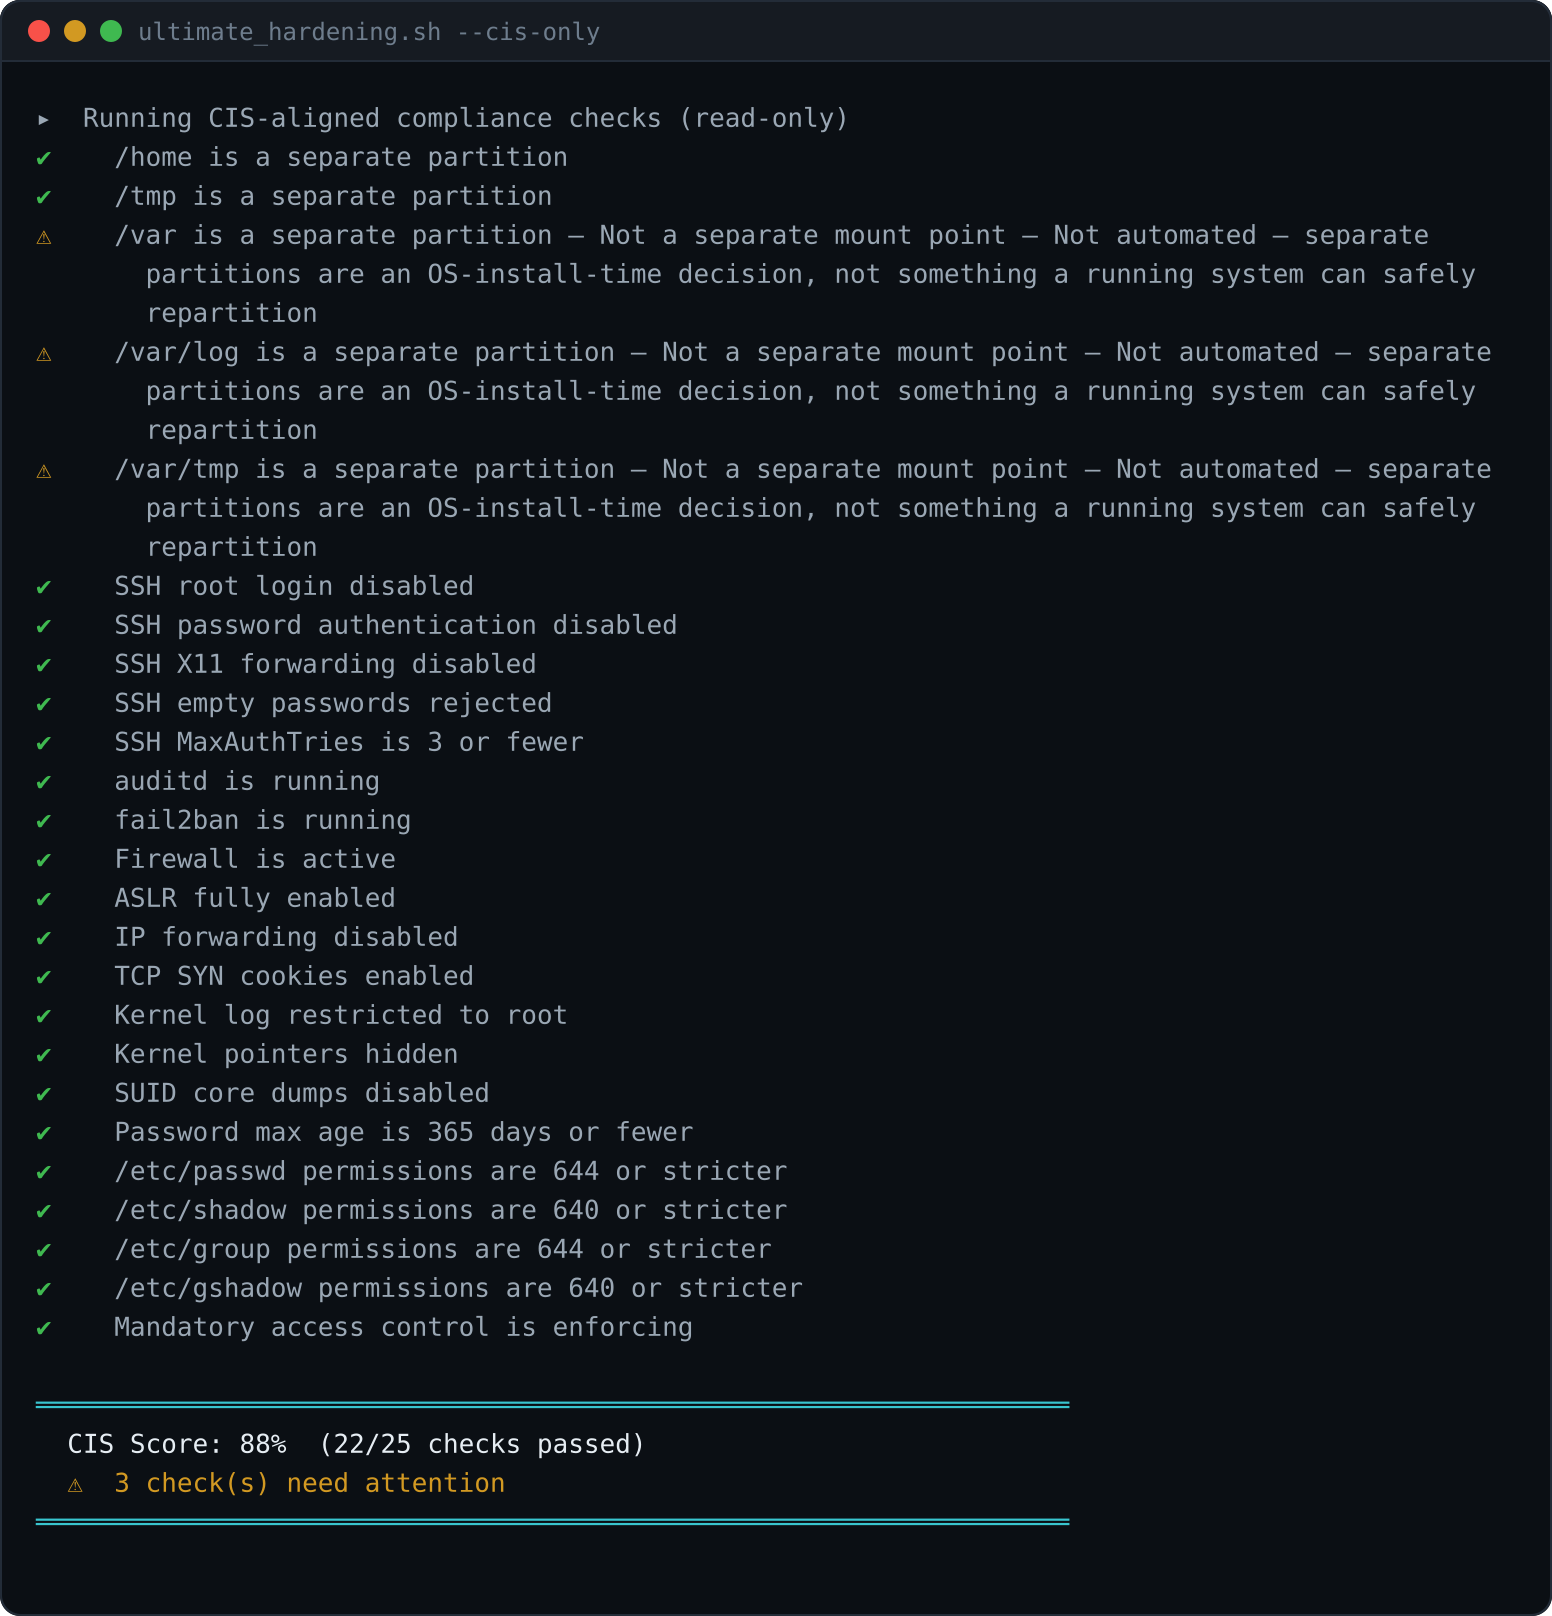
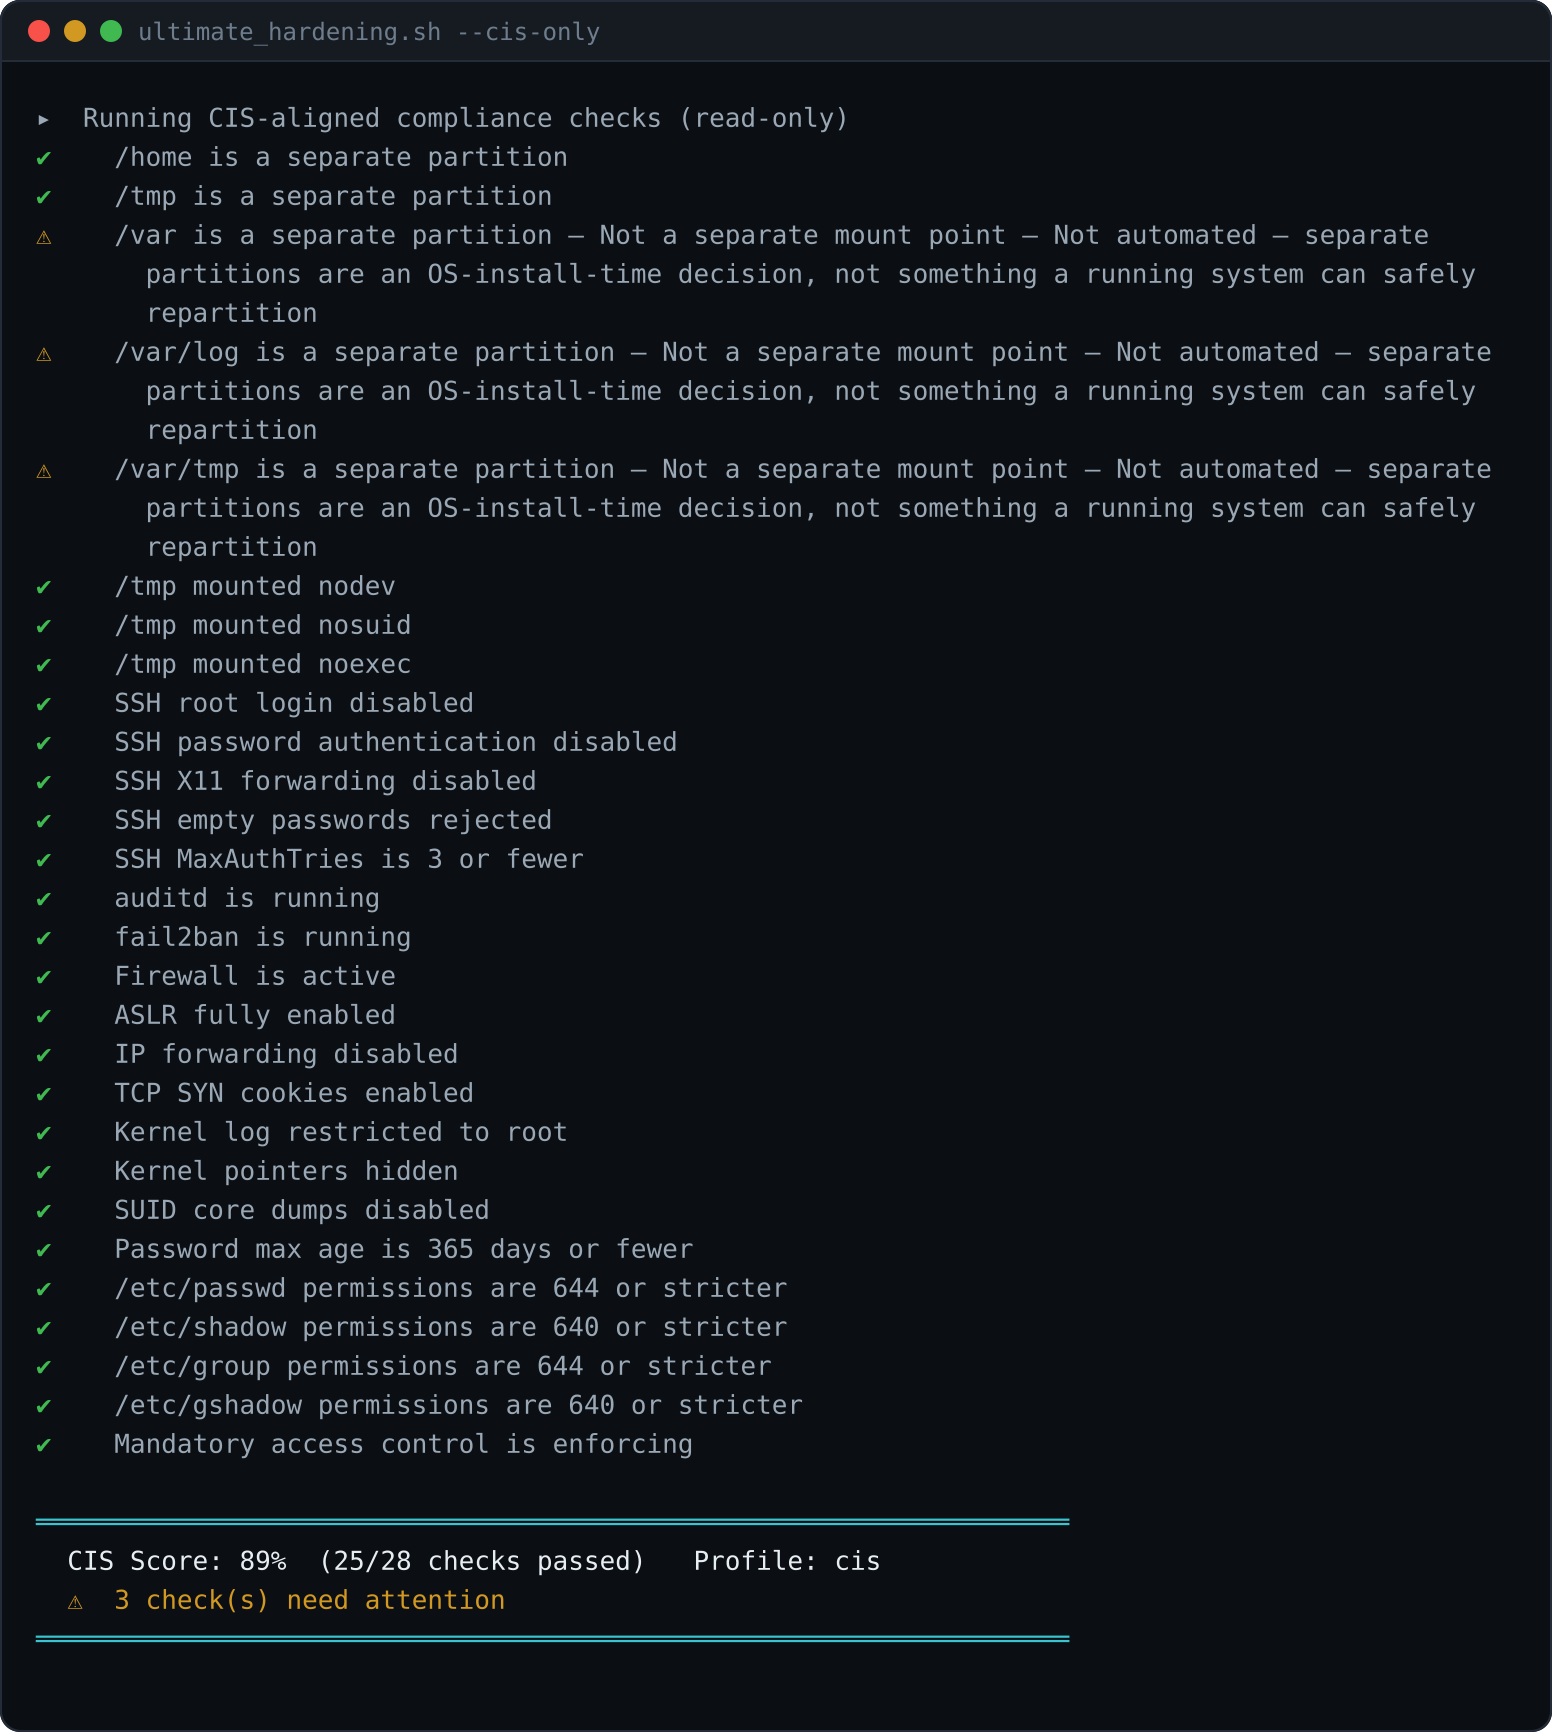
Release 2.8.0
Bump UH_VERSION, the clone lines in README, SECURITY.md and
docs/installation.md, the README's V= install line and container demo,
the site's badge and install commands, the Ansible role's uh_version
and the example in its README, and the package version that
tests/ansible/run.sh installs. Regenerate the site's terminal blocks,
the README screenshots and the Pro menu image from the code: the
overview carries the new version and the Profile column, and the
compliance screenshot shows the /tmp mount checks. Date the changelog
and add the 2.8.0 release link. The AUR package follows once the v2.8.0
tarball exists. The site's replay demo (docs/demo.html) still shows
2.7.0; it is re-recorded on a lab guest separately, as for 2.7.0.

2.8.0 adds two hardening profiles, chosen on a new first screen or with
--profile modern|cis: cis keeps the CIS values, modern follows NIST SP
800-63B-4 (no forced password expiry, compilers left out of "apply
all", umask 007 with a fallback to 027 wherever users or a directory
service could share a primary group, and optional UH_SHARED_DIRS group
workspaces). Container and Kubernetes hosts keep IP forwarding and
Kubernetes-owned sysctl keys, and get a bigger audit buffer. New CIS
checks cover /tmp's nodev, nosuid and noexec and lost audit events.
Fixes include a symlink attack on the shared-directory revert, and
check results kept to one line for exports.

diff --git a/docs/index.html b/docs/index.html
@@ -286,7 +286,7 @@
   </p>
 
   <div class="badges">
-    <span class="badge ok">v2.7.0</span>
+    <span class="badge ok">v2.8.0</span>
     <span class="badge ok">ShellCheck clean</span>
     <span class="badge">23 modules</span>
     <span class="badge">26 platforms</span>
@@ -310,13 +310,13 @@
       <span class="dot" style="background:#3fb950"></span>
       <span class="term-title">root@server — ultimate_hardening.sh --dry-run</span>
     </div>
-<div class="term-body"><span class="c-f">$</span> <span class="c-w">git clone --branch v2.7.0 https://github.com/Kal1010101/ultimate-sys-hardening.git</span>
+<div class="term-body"><span class="c-f">$</span> <span class="c-w">git clone --branch v2.8.0 https://github.com/Kal1010101/ultimate-sys-hardening.git</span>
 <span class="c-f">$</span> <span class="c-w">cd ultimate-sys-hardening</span>
 <span class="c-f">$</span> <span class="c-w">sudo ./src/free/ultimate_hardening.sh --dry-run</span>
 
 <!-- BEGIN generated modules: ./docs/build-terminals.sh -->
 <span class="c-c">╔══════════════════════════════════════════════════════════════════╗</span>
-<span class="c-c">║</span><span class="c-c">       ULTIMATE HARDENING 2.7.0 — FREE TIER</span>                       <span class="c-c">║</span>
+<span class="c-c">║</span><span class="c-c">       ULTIMATE HARDENING 2.8.0 — FREE TIER</span>                       <span class="c-c">║</span>
 <span class="c-c">║</span><span class="c-c">       Platform: </span><span class="c-w">rhel</span><span class="c-c">   Profile: </span><span class="c-w">cis</span>                              <span class="c-c">║</span>
 <span class="c-c">╚══════════════════════════════════════════════════════════════════╝</span>
 
@@ -754,12 +754,12 @@
         <span class="dot" style="background:#3fb950"></span>
         <span class="term-title">quick start</span>
       </div>
-<div class="term-body"><span class="c-f">$</span> <span class="c-w">git clone --branch v2.7.0 https://github.com/Kal1010101/ultimate-sys-hardening.git</span>
+<div class="term-body"><span class="c-f">$</span> <span class="c-w">git clone --branch v2.8.0 https://github.com/Kal1010101/ultimate-sys-hardening.git</span>
 <span class="c-f">$</span> <span class="c-w">cd ultimate-sys-hardening</span>
 <span class="c-f">$</span> <span class="c-w">sudo ./src/free/ultimate_hardening.sh --dry-run</span>
 
 <span class="c-c"># or try it in a throwaway container, with nothing on your machine touched:</span>
-<span class="c-f">$</span> <span class="c-w">docker run --rm -it ubuntu:24.04 bash -c "apt-get update -qq &amp;&amp; apt-get install -y -qq git ca-certificates openssh-server &gt;/dev/null &amp;&amp; git clone --branch v2.7.0 https://github.com/Kal1010101/ultimate-sys-hardening.git &amp;&amp; cd ultimate-sys-hardening &amp;&amp; ./src/free/ultimate_hardening.sh --dry-run"</span>
+<span class="c-f">$</span> <span class="c-w">docker run --rm -it ubuntu:24.04 bash -c "apt-get update -qq &amp;&amp; apt-get install -y -qq git ca-certificates openssh-server &gt;/dev/null &amp;&amp; git clone --branch v2.8.0 https://github.com/Kal1010101/ultimate-sys-hardening.git &amp;&amp; cd ultimate-sys-hardening &amp;&amp; ./src/free/ultimate_hardening.sh --dry-run"</span>
 </div>
     </div>
     <div class="cta" style="justify-content:center">

diff --git a/README.md b/README.md
@@ -91,7 +91,7 @@ opens the interactive menu in dry-run mode on Ubuntu (for Rocky Linux, use
 `rockylinux:9` and `dnf install -y git openssh-server`):
 
 ```bash
-docker run --rm -it ubuntu:24.04 bash -c "apt-get update -qq && apt-get install -y -qq git ca-certificates openssh-server >/dev/null && git clone --branch v2.7.0 https://github.com/Kal1010101/ultimate-sys-hardening.git && cd ultimate-sys-hardening && ./src/free/ultimate_hardening.sh --dry-run"
+docker run --rm -it ubuntu:24.04 bash -c "apt-get update -qq && apt-get install -y -qq git ca-certificates openssh-server >/dev/null && git clone --branch v2.8.0 https://github.com/Kal1010101/ultimate-sys-hardening.git && cd ultimate-sys-hardening && ./src/free/ultimate_hardening.sh --dry-run"
 ```
 
 Swap `--dry-run` for `--cis-only` to see the compliance score, or apply it
@@ -104,7 +104,7 @@ Each release attaches `.deb`, `.rpm`, `.apk` and Arch packages plus a
 Check the checksum before installing:
 
 ```bash
-V=2.7.0
+V=2.8.0
 BASE=https://github.com/Kal1010101/ultimate-sys-hardening/releases/download/v$V
 curl -fLO "$BASE/ultimate-hardening_${V}_all.deb"      # RHEL family: ultimate-hardening-${V}-1.noarch.rpm
 curl -fLO "$BASE/SHA256SUMS"
@@ -120,7 +120,7 @@ and Arch.
 ### Or run it from a checkout
 
 ```bash
-git clone --branch v2.7.0 https://github.com/Kal1010101/ultimate-sys-hardening.git
+git clone --branch v2.8.0 https://github.com/Kal1010101/ultimate-sys-hardening.git
 cd ultimate-sys-hardening
 sudo ./src/free/ultimate_hardening.sh
 ```

diff --git a/CHANGELOG.md b/CHANGELOG.md
@@ -6,6 +6,8 @@ and the project follows [Semantic Versioning](https://semver.org).
 
 ## [Unreleased]
 
+## [2.8.0] — 2026-11-26
+
 ### Added
 - Two hardening profiles, chosen on a new first screen: **cis** (CIS
   Benchmark defaults, as before) and **modern** (shared/multi-user servers,
@@ -822,7 +824,8 @@ families, macOS, and the BSDs). No telemetry, no licence check, no account — t
 only outbound request is the optional, explicitly-invoked `--check-update`. MIT
 licensed.
 
-[Unreleased]: https://github.com/Kal1010101/ultimate-sys-hardening/compare/v2.7.0...HEAD
+[Unreleased]: https://github.com/Kal1010101/ultimate-sys-hardening/compare/v2.8.0...HEAD
+[2.8.0]: https://github.com/Kal1010101/ultimate-sys-hardening/releases/tag/v2.8.0
 [2.7.0]: https://github.com/Kal1010101/ultimate-sys-hardening/releases/tag/v2.7.0
 [2.6.4]: https://github.com/Kal1010101/ultimate-sys-hardening/releases/tag/v2.6.4
 [2.6.3]: https://github.com/Kal1010101/ultimate-sys-hardening/releases/tag/v2.6.3

diff --git a/docs/installation.md b/docs/installation.md
@@ -6,7 +6,7 @@ see [PRICING.md](https://Kal1010101.github.io/ultimate-sys-hardening/#pricing).
 ## Quick install
 
 ```bash
-git clone --branch v2.7.0 https://github.com/Kal1010101/ultimate-sys-hardening.git
+git clone --branch v2.8.0 https://github.com/Kal1010101/ultimate-sys-hardening.git
 cd ultimate-sys-hardening
 sudo ./scripts/install.sh
 ```
@@ -42,7 +42,7 @@ nothing.
 The installer is optional — the script runs from a checkout as-is:
 
 ```bash
-git clone --branch v2.7.0 https://github.com/Kal1010101/ultimate-sys-hardening.git
+git clone --branch v2.8.0 https://github.com/Kal1010101/ultimate-sys-hardening.git
 cd ultimate-sys-hardening
 chmod +x src/free/ultimate_hardening.sh
 sudo ./src/free/ultimate_hardening.sh --dry-run --auto-mode

diff --git a/ansible/README.md b/ansible/README.md
@@ -57,8 +57,8 @@ package and `SHA256SUMS` were both replaced. To be sure you install the exact
 file you reviewed, pin its hash in your own playbook or group vars:
 
 ```yaml
-uh_version: "2.7.0"
-uh_package_sha256: "<sha256 of ultimate-hardening_2.7.0_all.deb>"   # per OS family
+uh_version: "2.8.0"
+uh_package_sha256: "<sha256 of ultimate-hardening_2.8.0_all.deb>"   # per OS family
 ```
 
 The hash is per package file, so a mixed fleet sets it per OS family (for

diff --git a/SECURITY.md b/SECURITY.md
@@ -96,7 +96,7 @@ why that module no longer exists.
 ## Verifying before you run
 
 ```bash
-git clone --branch v2.7.0 https://github.com/Kal1010101/ultimate-sys-hardening.git
+git clone --branch v2.8.0 https://github.com/Kal1010101/ultimate-sys-hardening.git
 cd ultimate-sys-hardening
 
 # Read it
